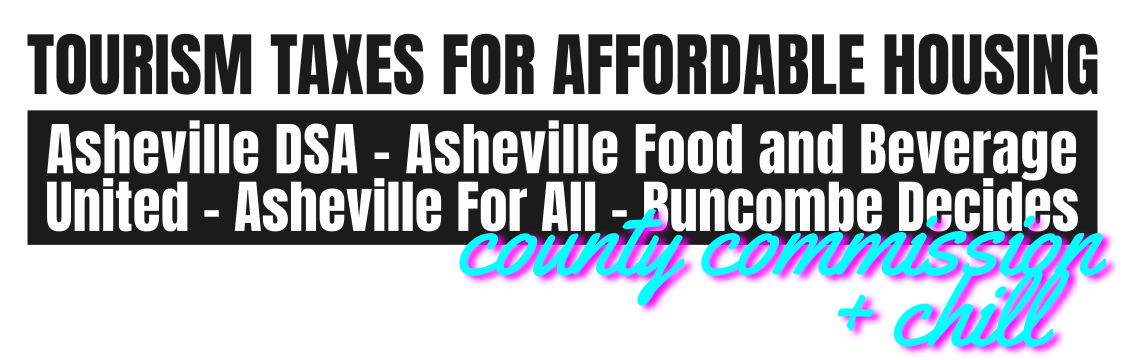
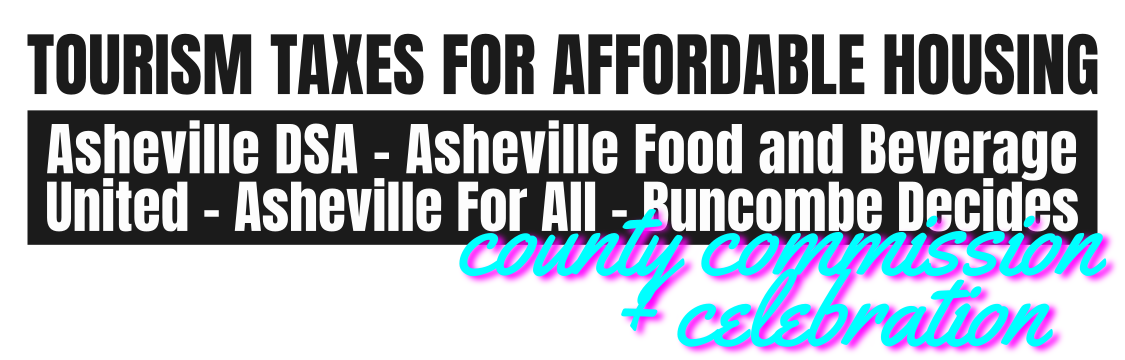
WIP

Changed region(s): [[0.5289, 0.7333, 0.9644, 1.0]]

diff --git a/county-commission-and-celebration.html b/county-commission-and-celebration.html
@@ -105,26 +105,20 @@
 
             <p>The “Tourism Taxes for Affordable Housing” campaign is all about fighting to get the county to use tax money that <b>that it already collects</b> for housing for working people.</b></p>
 
-            <p>Since March, we've been building wide, grassroots support to get the Buncombe County Tourism Development Authority (BCTDA) to commit to funding the construction of such housing. The BCTDA supports tourism, and the tourism industry is supported by service workers—many of whom struggle to find places to live in Asheville.</p>
+            <p>Since March, we've been building wide, grassroots support to get the Buncombe County Tourism Development Authority (BCTDA) to commit to funding the construction of such housing, and to increase worker representation on its decision-making bodies. The BCTDA supports tourism, and the tourism industry is supported by service workers—many of whom struggle to find places to live in Asheville.</p>
 
             <p><b>ON TUESDAY, SEPTEMBER 5th,</b> join Asheville DSA, Asheville Food and Beverage United, Asheville For All, and Buncombe Decides for the Buncombe County Commission Meeting, where we’ll present the results of our spring campaign to the commissioners, and tell our housing stories!</p>
 
-            <p>This will be a celebration. We’re returning to the county, where we visited last December, to show them that the community is behind the county government’s <a href="https://www.instagram.com/p/CsyN0-xOrVg/" target="_blank">own pursuits</a> in directing the BCTDA to help out with the housing crisis.</p>
+            <p>This will be a celebration. We’re returning to the county, where we visited last December, to show them that the community is behind the county government’s <a href="https://www.buncombecounty.org/common/Commissioners/20230314%20Budget/7_%20TDA%20Administration%20Fee%20and%20TPDF%20Cycle.pdf" target="_blank">own pursuits</a> in directing the BCTDA to help out with the housing crisis.</p>
 
             <p><b>And after the public comment period is over</b>, we’ll continue the celebration at a nearby downtown watering hole, to be announced.</p>
 
             <p><b>RSVP below <a href="#rsvp-here">⬇</a> to let us know you’re coming!</b> We’ll be sure to keep you up to date on all of the details.</p>
 
-            <h2>Background</h2>
-
-            <p>TK</p>
-
             <figure class="mb-5 mt-5 figure">
                 <img src="2023-05-31-tda.png" alt="A montage of photographs from the Tourism Taxes for Affordable Housing rally event in May 2023." class="figure-img img-fluid" />
-                <figcaption class="figure-caption">This is a bit of what our last event looked like. Join us again!</figcaption>
+                <figcaption class="figure-caption">This is a bit of <a href="https://www.yahoo.com/news/asheville-workers-call-tda-put-092123185.html" target="_blank">what our last event looked like</a>. Join us again!</figcaption>
             </figure>
-
-            <p>TK</p>
 
             <h2>Schedule</h2>
 
